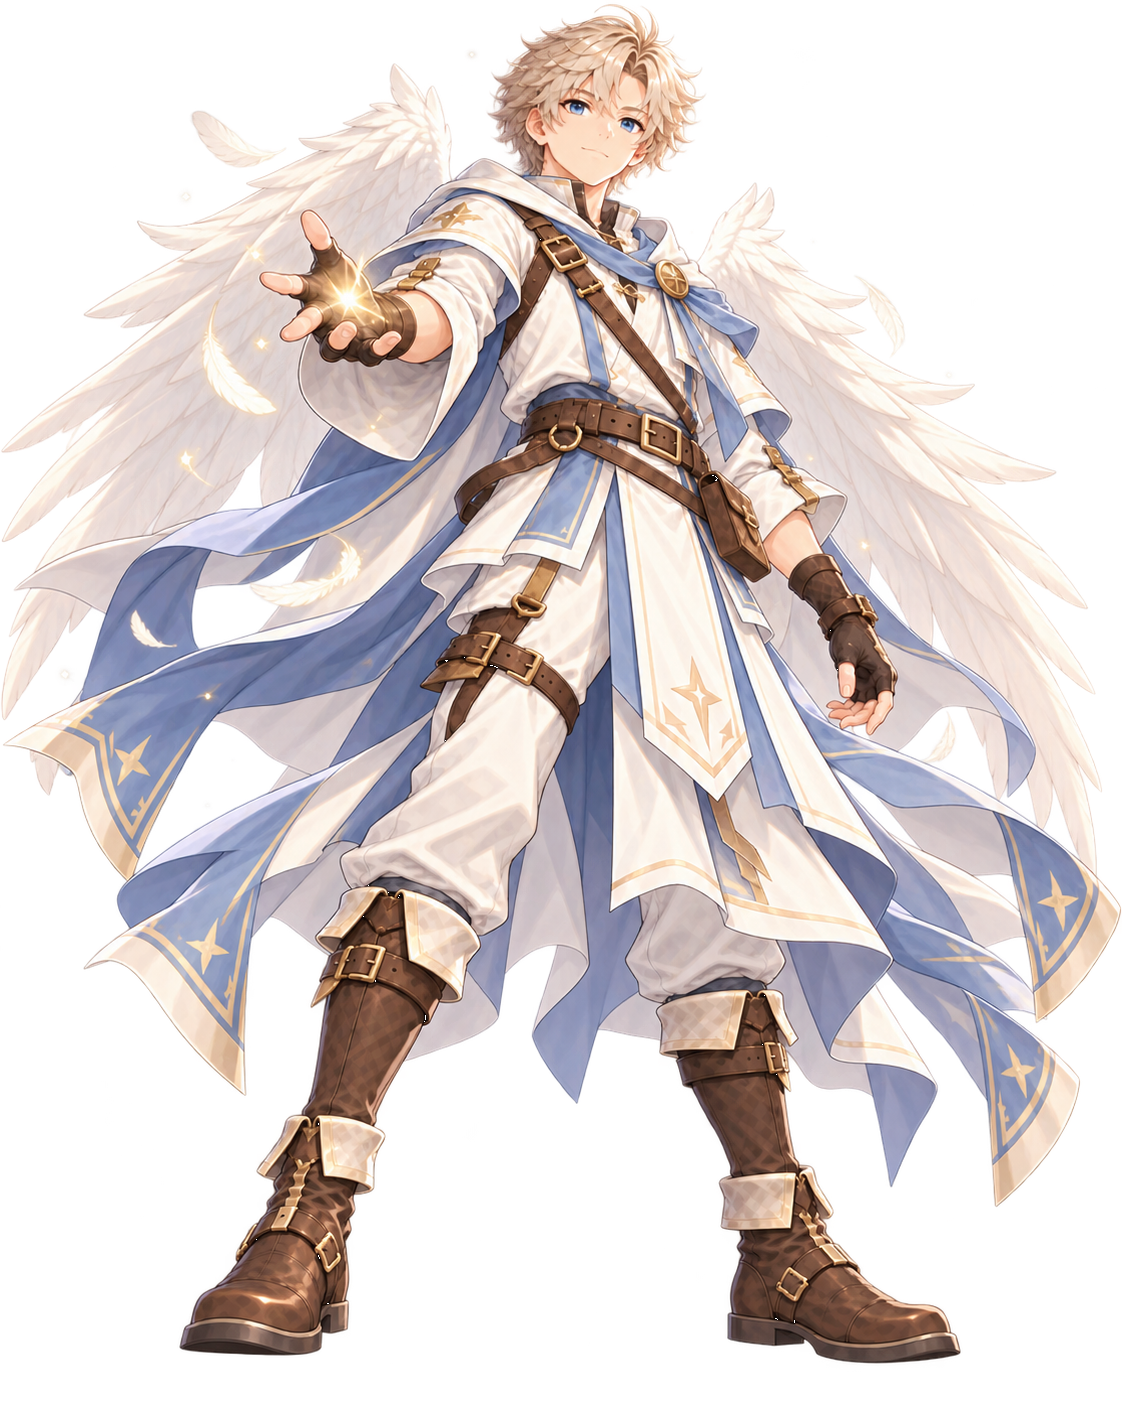
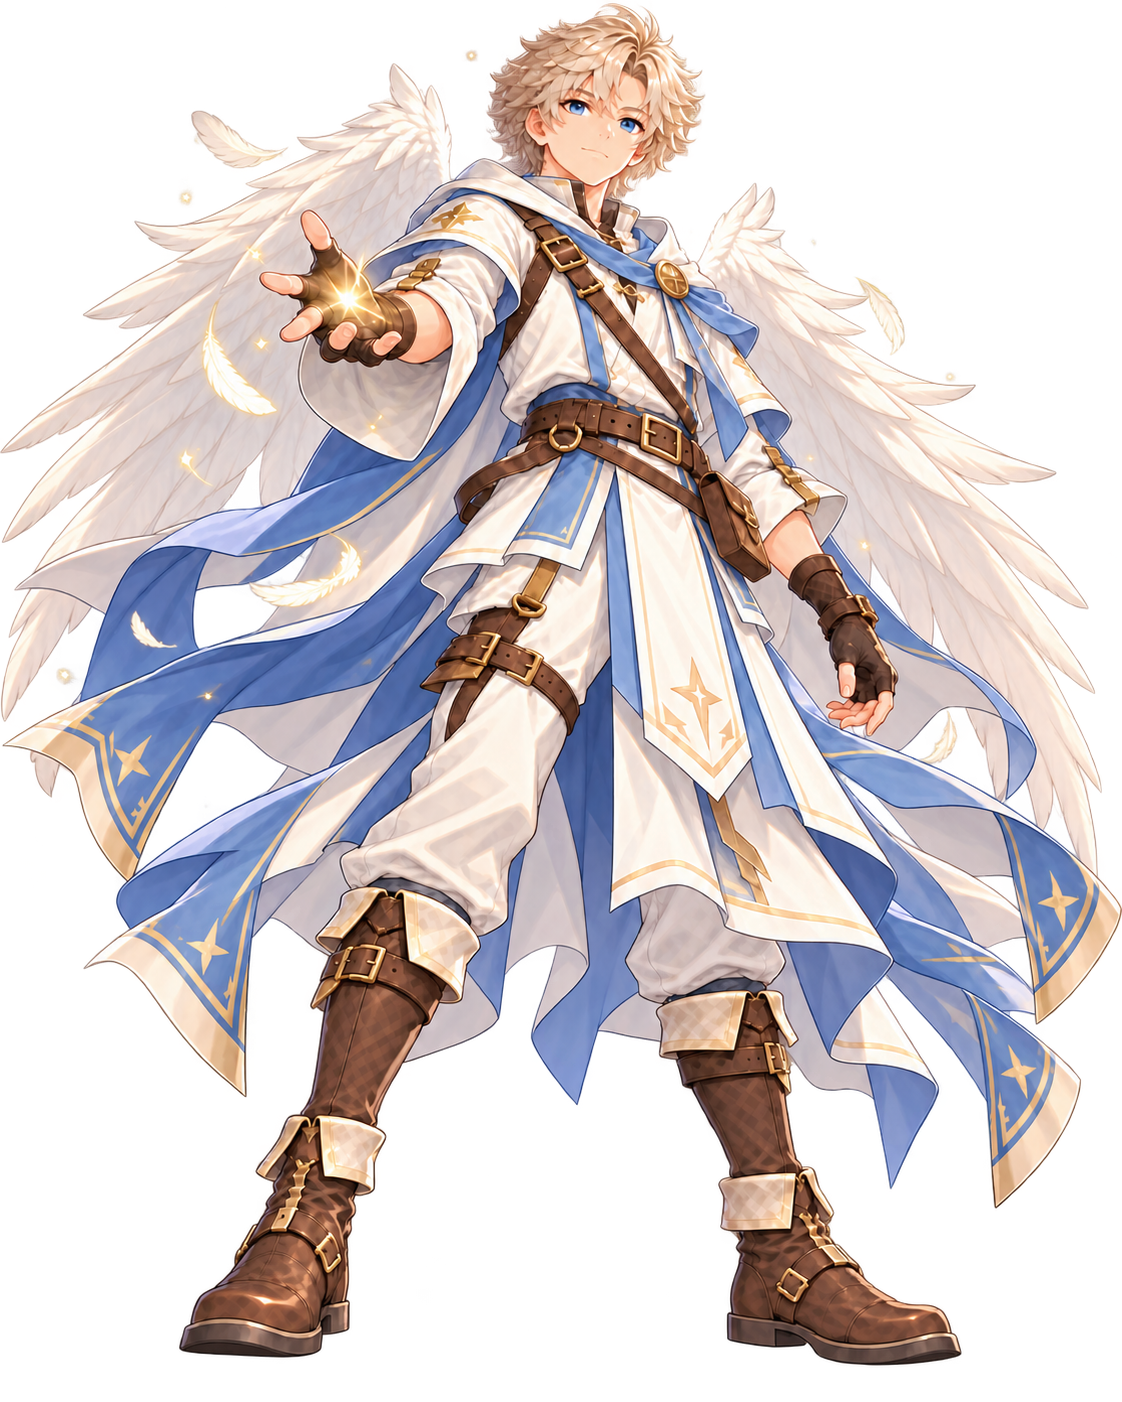
Repair male portrait transparency and audit all role artwork

diff --git a/scripts/audit-portrait-alpha.py b/scripts/audit-portrait-alpha.py
@@ -1,0 +1,31 @@
+"""Read-only alpha audit and contrast previews. Does not alter runtime assets."""
+from pathlib import Path
+from PIL import Image, ImageDraw
+import json
+ROOT = Path(__file__).resolve().parents[1]
+OUT = ROOT / 'output/portraits/alpha-review'
+OUT.mkdir(parents=True, exist_ok=True)
+roles = ('warrior', 'boxer', 'samurai', 'guardian', 'ninja', 'assassin', 'ranger', 'gunner', 'mage', 'spellblade', 'onmyoji', 'reaper', 'angel', 'devil', 'dragon_knight', 'berserker')
+records = []
+for gender in ('male', 'female'):
+    tiles = []
+    for role in roles:
+        path = ROOT / 'mobile/assets/images/lobby/portraits' / ('female' if gender == 'female' else '') / f'{role}.png'
+        image = Image.open(path).convert('RGBA')
+        alpha = image.getchannel('A')
+        mask = alpha.point(lambda v: 255 if v < 180 else 0)
+        holes = mask.crop(alpha.getbbox()).histogram()[255]
+        records.append(dict(gender=gender, role=role, low_alpha_in_bbox=holes, alpha_max=alpha.getextrema()[1]))
+        image.thumbnail((620, 910))
+        tile = Image.new('RGBA', (640, 960), '#19e077')
+        tile.alpha_composite(image, ((640-image.width)//2, 40))
+        ImageDraw.Draw(tile).text((10,10), f'{gender} {role}', fill='black')
+        tiles.append(tile.convert('RGB'))
+    for page in range(4):
+        sheet = Image.new('RGB', (1280, 1920))
+        for n, tile in enumerate(tiles[page*4:page*4+4]):
+            sheet.paste(tile, ((n%2)*640, (n//2)*960))
+        sheet.save(OUT / f'{gender}-{page+1}.jpg', quality=95)
+(OUT / 'audit.json').write_text(json.dumps(records, indent=2), encoding='utf-8')
+for row in records:
+    print(row)

diff --git a/scripts/package-alpha-repairs.py b/scripts/package-alpha-repairs.py
@@ -1,0 +1,32 @@
+"""Copy reviewed imagegen repairs byte-for-byte, preserving original sources."""
+from pathlib import Path
+from PIL import Image
+import hashlib
+import json
+import shutil
+
+ROOT = Path(__file__).resolve().parents[1]
+ART = ROOT / 'art/portrait_alpha_v002'
+jobs = json.loads((ROOT / 'output/portraits/alpha-generated.json').read_text(encoding='utf-8'))
+assert len(jobs) == 16 and len({j['role'] for j in jobs}) == 16
+records = []
+for job in jobs:
+    role = job['role']
+    source = Path(job['path'])
+    asset = ROOT / f'mobile/assets/images/lobby/portraits/{role}.png'
+    backup = ART / 'originals_before' / f'{role}.png'
+    repaired = ART / 'repaired' / f'{role}.png'
+    for folder in (backup.parent, repaired.parent):
+        folder.mkdir(parents=True, exist_ok=True)
+    if not backup.exists():
+        shutil.copy2(asset, backup)
+    with Image.open(source) as image:
+        assert image.mode == 'RGBA' and image.getchannel('A').getextrema()[0] == 0
+    shutil.copy2(source, repaired)
+    shutil.copy2(repaired, asset)
+    assert source.read_bytes() == asset.read_bytes()
+    records.append(dict(role=role, tool='image_gen.imagegen', generated_source=str(source),
+                        original_sha256=hashlib.sha256(backup.read_bytes()).hexdigest(),
+                        repaired_sha256=hashlib.sha256(asset.read_bytes()).hexdigest()))
+(ART / 'manifest.json').write_text(json.dumps(records, ensure_ascii=False, indent=2), encoding='utf-8')
+print('Packaged 16 reviewed male repairs; female assets unchanged.')

diff --git a/scripts/package-character-lobby.py b/scripts/package-character-lobby.py
@@ -31,6 +31,9 @@ for name, filename in FILES.items():
         image.save(OUT / f'{name}.png', optimize=True)
 for number, role in enumerate(ROLES, 1):
     source, = SOURCE.glob(f'{number:02d}_*.png')
+    repaired = ROOT / 'art/portrait_alpha_v002/repaired' / f'{role}.png'
+    if repaired.exists():
+        source = repaired
     with Image.open(source) as image:
         assert image.mode == 'RGBA', f'Expected supplied alpha: {source}'
         assert image.getchannel('A').getextrema()[0] == 0

diff --git a/scripts/package-role-portraits.py b/scripts/package-role-portraits.py
@@ -23,6 +23,9 @@ with zipfile.ZipFile(ZIP) as archive:
         for number, role in enumerate(ROLES, 1):
             if variant == 'male':
                 source, = SOURCE.glob(f'{number:02d}_*.png')
+                repaired = ROOT / 'art/portrait_alpha_v002/repaired' / f'{role}.png'
+                if repaired.exists():
+                    source = repaired
                 raw = source.read_bytes()
                 name = source.name
             else:

diff --git a/art/portrait_alpha_v002/README.md b/art/portrait_alpha_v002/README.md
@@ -1,0 +1,13 @@
+# 立ち絵の透過修正 v002
+
+2026-10-11: 男性忍者の髪・胴体・衣装の暗い線が背景と一緒に抜けていた。男女32枚を緑の背景に重ねて目視確認し、男性版16枚に見られる同様の抜けを修正した。女性版16枚は今回の見直しで同様の体の抜けを確認できず、変更していない。
+
+`originals_before/` はアプリが使用していた男性素材のコピー、`repaired/` は組み込み画像編集ツールで背景透過を修正したPNG。ユーザーの元フォルダーとZIP、ドット絵原画・アニメーションは変更しない。アプリへの包装時は修正版を優先する。
+
+使用ツール: built-in `image_gen.imagegen`、`transparent_background=true`。入力はそれぞれの元PNG。全身の顔・ポーズ・衣装・武器・色を保持し、暗い縫い目と装備境界の誤透過を埋め、背景と本来の隙間だけを透過するよう指定した。魔法職では魔力・光・浮遊物を残すよう指定した。生成編集のためRGBの完全一致は保証しない。
+
+共通プロンプト:
+
+> Repair only the transparency mask of this exact male fantasy game character cutout. Preserve the exact face, pose, proportions, costume, hair, weapons, lighting, original illustration details and entire uncropped silhouette. Restore fully opaque body, dark garment seams, belt and armor boundaries, folds, boots, gloves and hair so there are no background holes through the character. Remove only the backdrop to genuine alpha transparency. Preserve natural empty spaces outside the silhouette and between limbs and ribbons; retain decorative ragged fabric edges. Keep all magical energy, luminous glows and floating objects intact with soft alpha on glow only. Keep original colors and composition. No redesign, no new objects, no text, no white halo.
+
+確認用プレビューと透過統計は `scripts/audit-portrait-alpha.py` で再作成する。統計の `low_alpha_in_bbox` は自然な隙間も含むため、不具合数ではない。最終判断は各画像の髪・顔・胴・腕・脚・武器・装飾を目視して行う。

diff --git a/docs/ROLE_PORTRAIT_REVIEW.md b/docs/ROLE_PORTRAIT_REVIEW.md
@@ -1,5 +1,11 @@
 # 16職業・男女立ち絵の確認（2026-10-11）
 
+## 透過の再確認・修正
+
+男性忍者の誤透過の報告を受け、男女32枚を高コントラストの緑色背景で見直した。男性版では暗い衣装の縫い目・装備境界・髪にも透過の抜けが見られたため、16枚を修正した。女性版は同様の体の抜けを確認できず、今回は変更していない。修正版と修正前素材、編集ツールとプロンプトは `art/portrait_alpha_v002/` に保存する。以下の原画像一致の記録は修正前の検証履歴であり、男性版の現行素材は修正版を使用する。
+
+## 修正前の職業・性別対応の確認
+
 指定された男性フォルダー16枚と女性ZIP16枚を目視確認した。原画像のファイル名番号を職業へ明示的に対応付け、キャラクター画面とホーム（ロビー）で同じ画像を選ぶ。元画像は加工せずPNGのままコピーし、コピー元とアプリ素材のSHA256・ファイル一致・透過を確認した。
 
 | 番号・職業 | 男性素材の確認 | 女性素材の確認 | アプリの職業ID |
